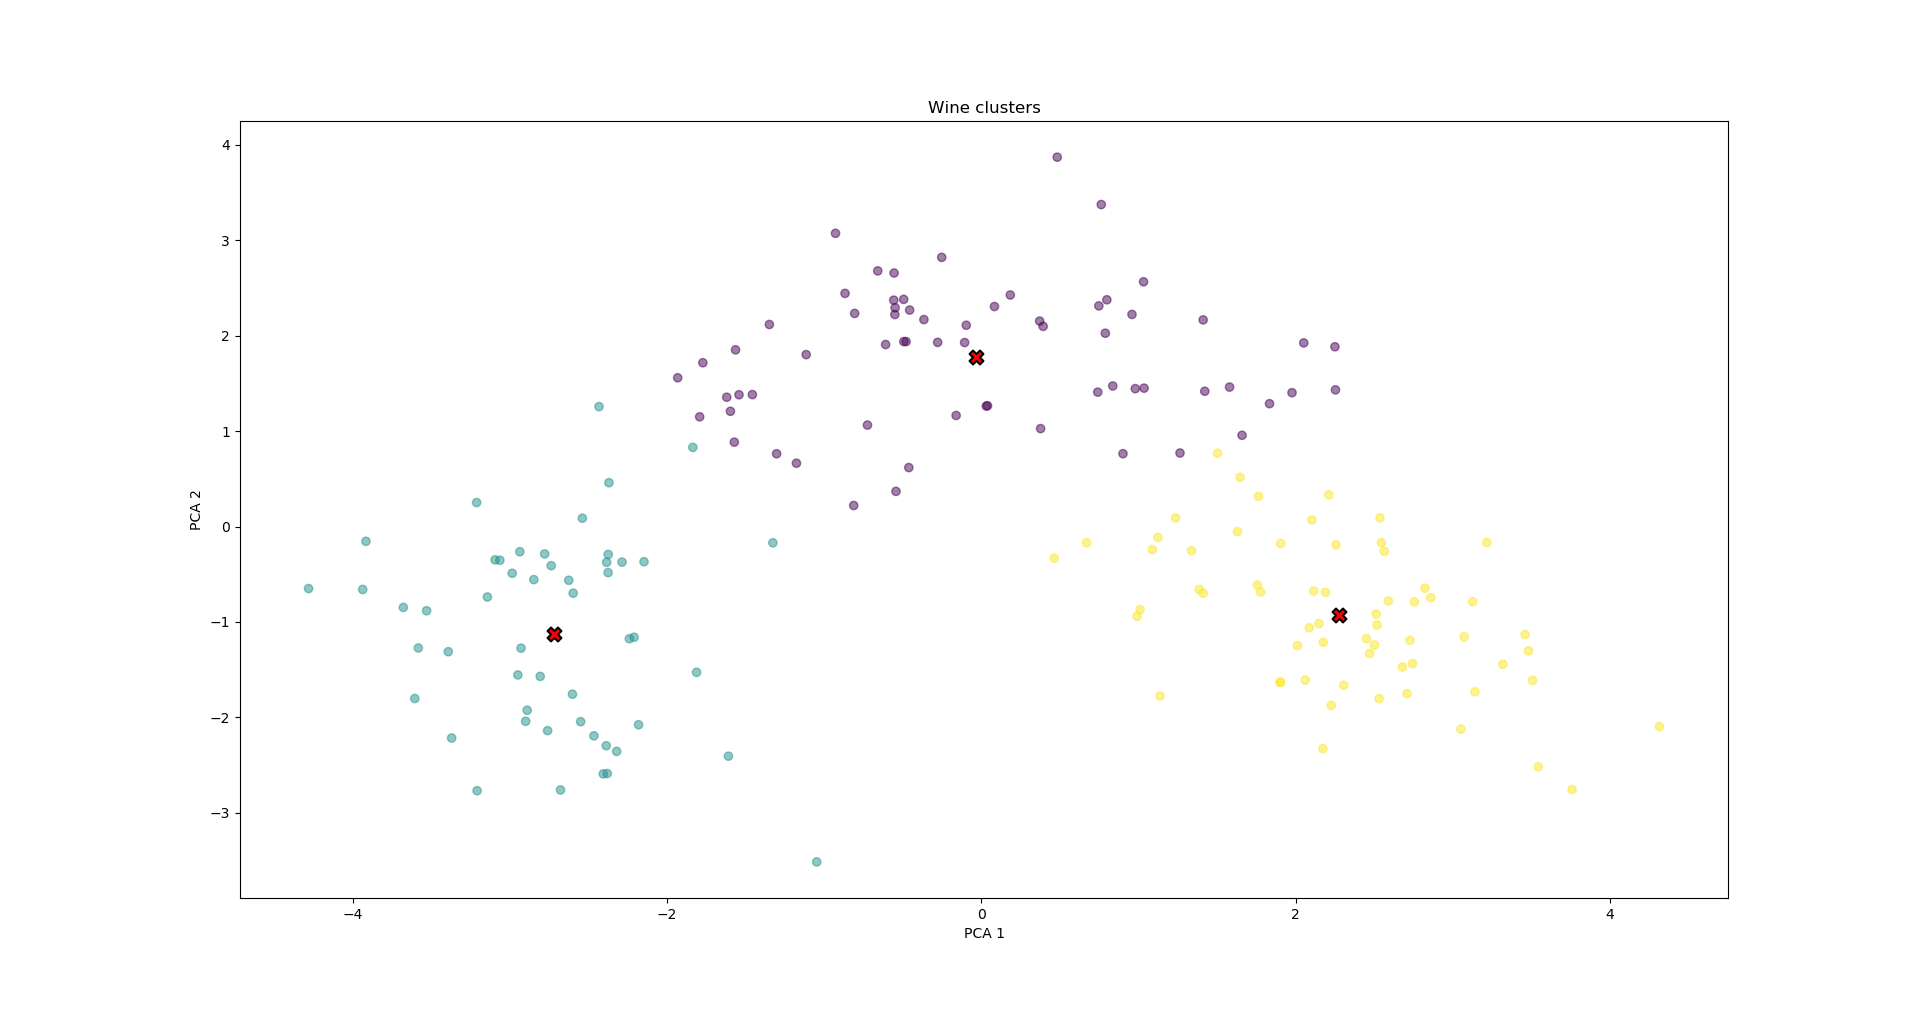
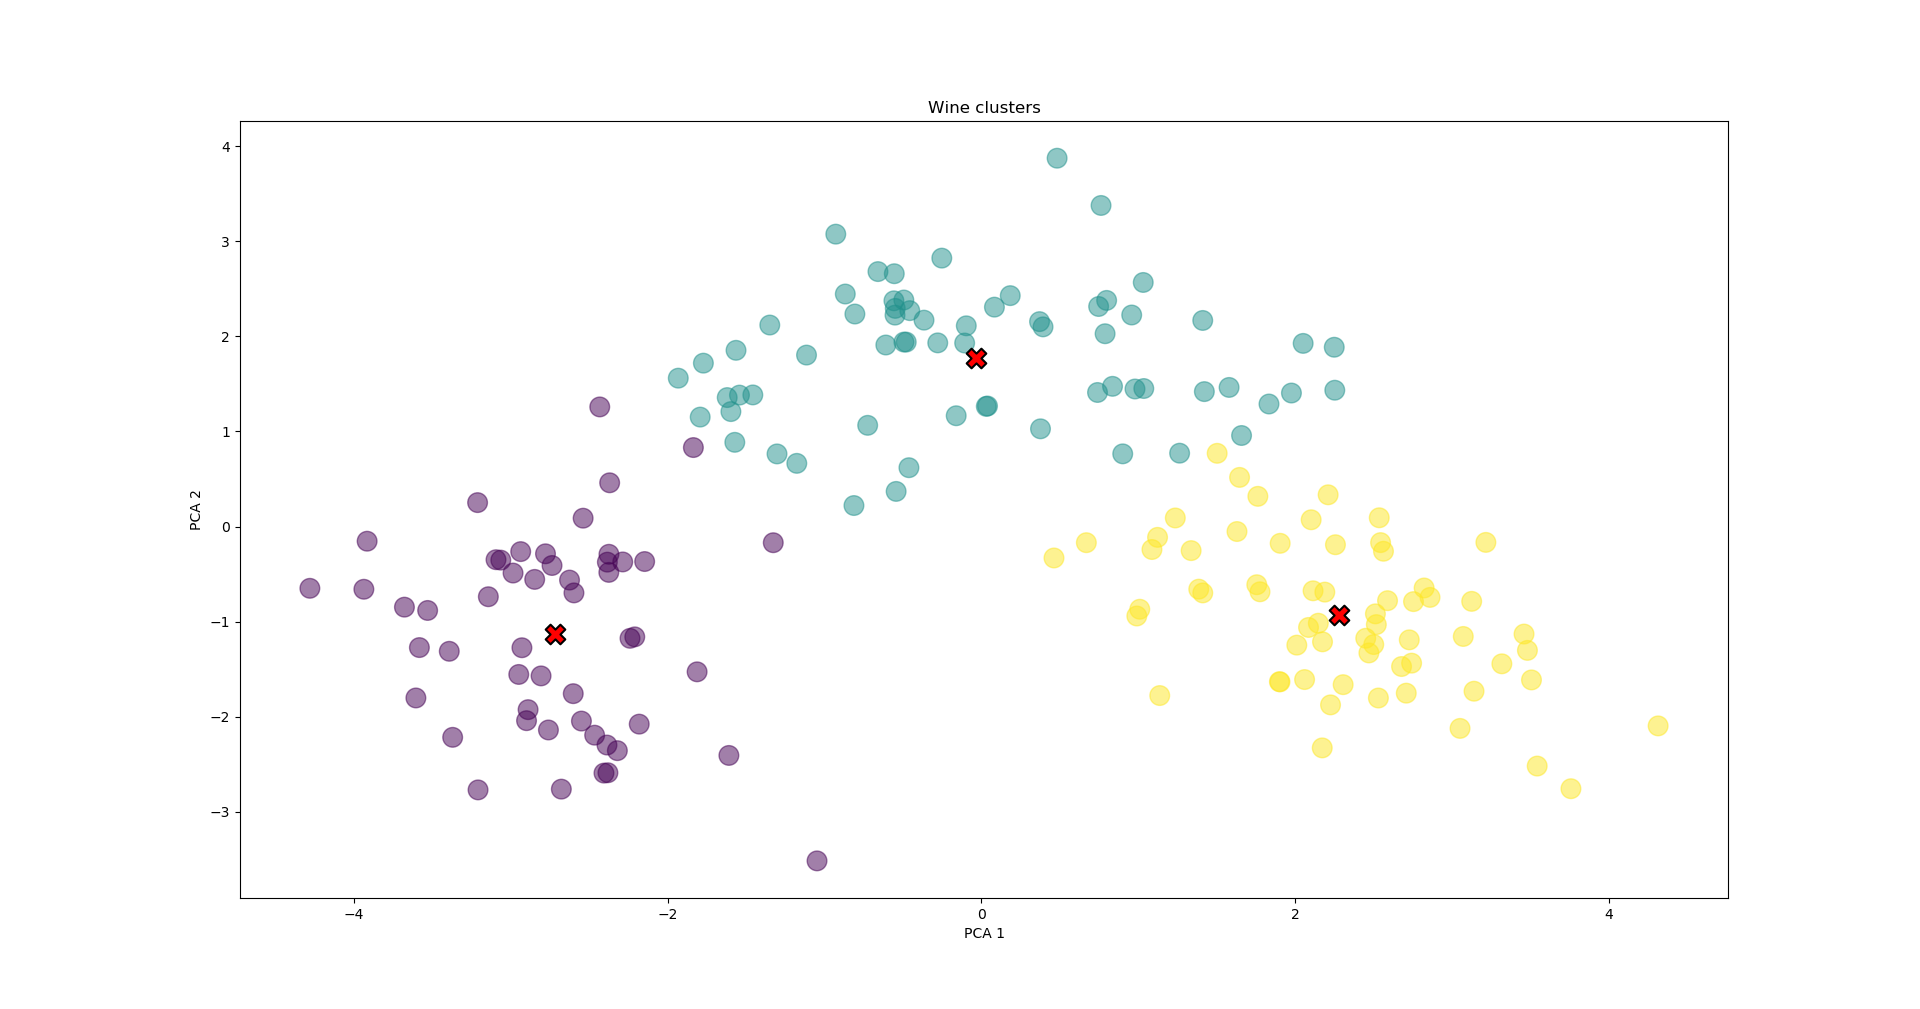
Updated file

diff --git a/WineClustering.py b/WineClustering.py
@@ -102,12 +102,12 @@ def visualizing_results(pca_result, label, centroids_pca):
     x = pca_result[:, 0]
     y = pca_result[:, 1]
 
-    plt.scatter(x, y, c=label, alpha=0.5)  # plot different colors per cluster
+    plt.scatter(x, y, c=label, alpha=0.5, s= 200)  # plot different colors per cluster
     plt.title('Wine clusters')
     plt.xlabel('PCA 1')
     plt.ylabel('PCA 2')
 
-    plt.scatter(centroids_pca[:, 0], centroids_pca[:, 1], marker='X', s=100, linewidths=1.5,
+    plt.scatter(centroids_pca[:, 0], centroids_pca[:, 1], marker='X', s=200, linewidths=1.5,
                 color='red', edgecolors="black", lw=1.5)
 
     plt.show()
